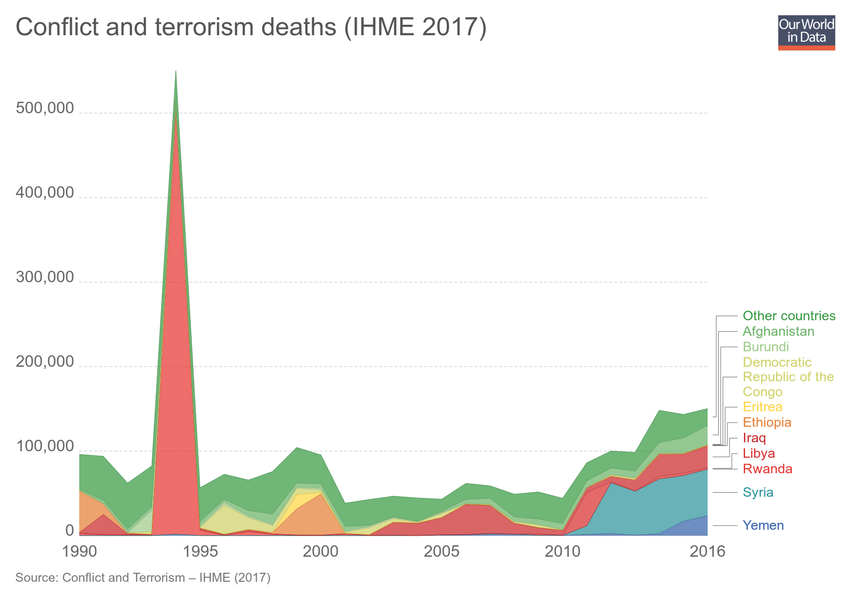
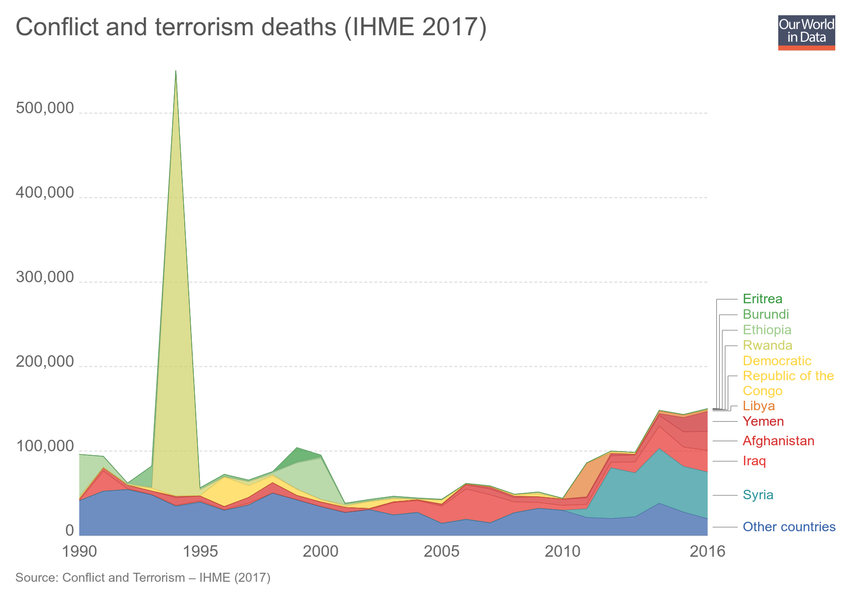
Updating chart conflict-and-terrorism-deaths-ihme-2017

Changed region(s): [[0.0918, 0.15, 0.9788, 0.9], [0.8565, 0.87, 0.9788, 0.9]]

diff --git a/grapher/conflict-and-terrorism-deaths-ihme-2017.html b/grapher/conflict-and-terrorism-deaths-ihme-2017.html
@@ -1,4 +1,4 @@
-<!doctype html><html><head><meta name="viewport" content="width=device-width, initial-scale=1" /><title>Conflict and terrorism deaths (IHME 2017) - Our World in Data</title><meta name="description" content="An interactive visualization from Our World in Data." /><link rel="canonical" href="https://ourworldindata.org/grapher/conflict-and-terrorism-deaths-ihme-2017" /><meta property="fb:app_id" content="1149943818390250" /><meta property="og:url" content="https://ourworldindata.org/grapher/conflict-and-terrorism-deaths-ihme-2017" /><meta property="og:title" content="Conflict and terrorism deaths (IHME 2017)" /><meta property="og:description" content="An interactive visualization from Our World in Data." /><meta property="og:image" content="https://ourworldindata.org/grapher/exports/conflict-and-terrorism-deaths-ihme-2017.png?v=1" /><meta property="og:image:width" content="850" /><meta property="og:image:height" content="600" /><meta property="og:site_name" content="Our World in Data" /><meta name="twitter:card" content="summary_large_image" /><meta name="twitter:site" content="@OurWorldInData" /><meta name="twitter:creator" content="@OurWorldInData" /><meta name="twitter:title" content="Conflict and terrorism deaths (IHME 2017)" /><meta name="twitter:description" content="An interactive visualization from Our World in Data." /><meta name="twitter:image" content="https://ourworldindata.org/grapher/exports/conflict-and-terrorism-deaths-ihme-2017.png?v=1" /><style>
+<!doctype html><html><head><meta name="viewport" content="width=device-width, initial-scale=1" /><title>Conflict and terrorism deaths (IHME 2017) - Our World in Data</title><meta name="description" content="An interactive visualization from Our World in Data." /><link rel="canonical" href="https://ourworldindata.org/grapher/conflict-and-terrorism-deaths-ihme-2017" /><meta property="fb:app_id" content="1149943818390250" /><meta property="og:url" content="https://ourworldindata.org/grapher/conflict-and-terrorism-deaths-ihme-2017" /><meta property="og:title" content="Conflict and terrorism deaths (IHME 2017)" /><meta property="og:description" content="An interactive visualization from Our World in Data." /><meta property="og:image" content="https://ourworldindata.org/grapher/exports/conflict-and-terrorism-deaths-ihme-2017.png?v=2" /><meta property="og:image:width" content="850" /><meta property="og:image:height" content="600" /><meta property="og:site_name" content="Our World in Data" /><meta name="twitter:card" content="summary_large_image" /><meta name="twitter:site" content="@OurWorldInData" /><meta name="twitter:creator" content="@OurWorldInData" /><meta name="twitter:title" content="Conflict and terrorism deaths (IHME 2017)" /><meta name="twitter:description" content="An interactive visualization from Our World in Data." /><meta name="twitter:image" content="https://ourworldindata.org/grapher/exports/conflict-and-terrorism-deaths-ihme-2017.png?v=2" /><style>
         html, body {
             height: 100%;
             margin: 0;
@@ -20,8 +20,8 @@
         }
     </style><noscript><style>
                     figure { display: none !important; }
-                </style></noscript><link rel="stylesheet" href="https://ourworldindata.org/grapher/assets/commons.bundle.397229a8467cf53bfc99.css" /><link rel="preload" href="/grapher/data/variables/98002.json?v=1" as="fetch" crossorigin /></head><body class="singleChart"><figure data-grapher-src="/grapher/conflict-and-terrorism-deaths-ihme-2017"></figure><noscript id="fallback"><img src="/grapher/exports/conflict-and-terrorism-deaths-ihme-2017.svg" /><p>Interactive visualization requires JavaScript</p></noscript><script src="https://cdn.polyfill.io/v2/polyfill.min.js?features=es6,fetch"></script><script src="https://ourworldindata.org/grapher/assets/commons.bundle.397229a8467cf53bfc99.js"></script><script src="https://ourworldindata.org/grapher/assets/charts.bundle.397229a8467cf53bfc99.js"></script><script>
-        var jsonConfig = {"map":{"projection":"World","colorSchemeLabels":[],"colorSchemeValues":[],"customNumericColors":[],"customCategoryColors":{},"customCategoryLabels":{},"customHiddenCategories":{}},"tab":"chart","slug":"conflict-and-terrorism-deaths-ihme-2017","type":"StackedArea","title":"Conflict and terrorism deaths (IHME 2017)","xAxis":{"scaleType":"linear"},"yAxis":{"min":0,"scaleType":"linear"},"version":1,"hasMapTab":false,"stackMode":"absolute","dimensions":[{"display":{},"property":"y","variableId":98002}],"isAutoSlug":true,"hasChartTab":true,"isAutoTitle":true,"isPublished":true,"selectedData":[{"index":0,"entityId":38197},{"index":0,"entityId":15},{"index":0,"entityId":41},{"index":0,"entityId":35115},{"index":0,"entityId":157},{"index":0,"entityId":158},{"index":0,"entityId":134},{"index":0,"entityId":120},{"index":0,"entityId":91},{"index":0,"entityId":77},{"index":0,"entityId":61}],"addCountryMode":"add-country","id":3028};
+                </style></noscript><link rel="stylesheet" href="https://ourworldindata.org/grapher/assets/commons.bundle.397229a8467cf53bfc99.css" /><link rel="preload" href="/grapher/data/variables/98002.json?v=2" as="fetch" crossorigin /></head><body class="singleChart"><figure data-grapher-src="/grapher/conflict-and-terrorism-deaths-ihme-2017"></figure><noscript id="fallback"><img src="/grapher/exports/conflict-and-terrorism-deaths-ihme-2017.svg" /><p>Interactive visualization requires JavaScript</p></noscript><script src="https://cdn.polyfill.io/v2/polyfill.min.js?features=es6,fetch"></script><script src="https://ourworldindata.org/grapher/assets/commons.bundle.397229a8467cf53bfc99.js"></script><script src="https://ourworldindata.org/grapher/assets/charts.bundle.397229a8467cf53bfc99.js"></script><script>
+        var jsonConfig = {"id":3028,"map":{"projection":"World","colorSchemeLabels":[],"colorSchemeValues":[],"customNumericColors":[],"customCategoryColors":{},"customCategoryLabels":{},"customHiddenCategories":{}},"tab":"chart","slug":"conflict-and-terrorism-deaths-ihme-2017","type":"StackedArea","title":"Conflict and terrorism deaths (IHME 2017)","xAxis":{"scaleType":"linear"},"yAxis":{"min":0,"scaleType":"linear"},"version":2,"hasMapTab":false,"stackMode":"absolute","dimensions":[{"display":{},"property":"y","variableId":98002}],"hasChartTab":true,"isAutoTitle":true,"isPublished":true,"selectedData":[{"index":0,"entityId":157},{"index":0,"entityId":41},{"index":0,"entityId":158},{"index":0,"entityId":91},{"index":0,"entityId":35115},{"index":0,"entityId":120},{"index":0,"entityId":61},{"index":0,"entityId":15},{"index":0,"entityId":134},{"index":0,"entityId":77},{"index":0,"entityId":38197}],"addCountryMode":"add-country"};
         var figure = document.getElementsByTagName("figure")[0];
         try {
             window.App = {};
